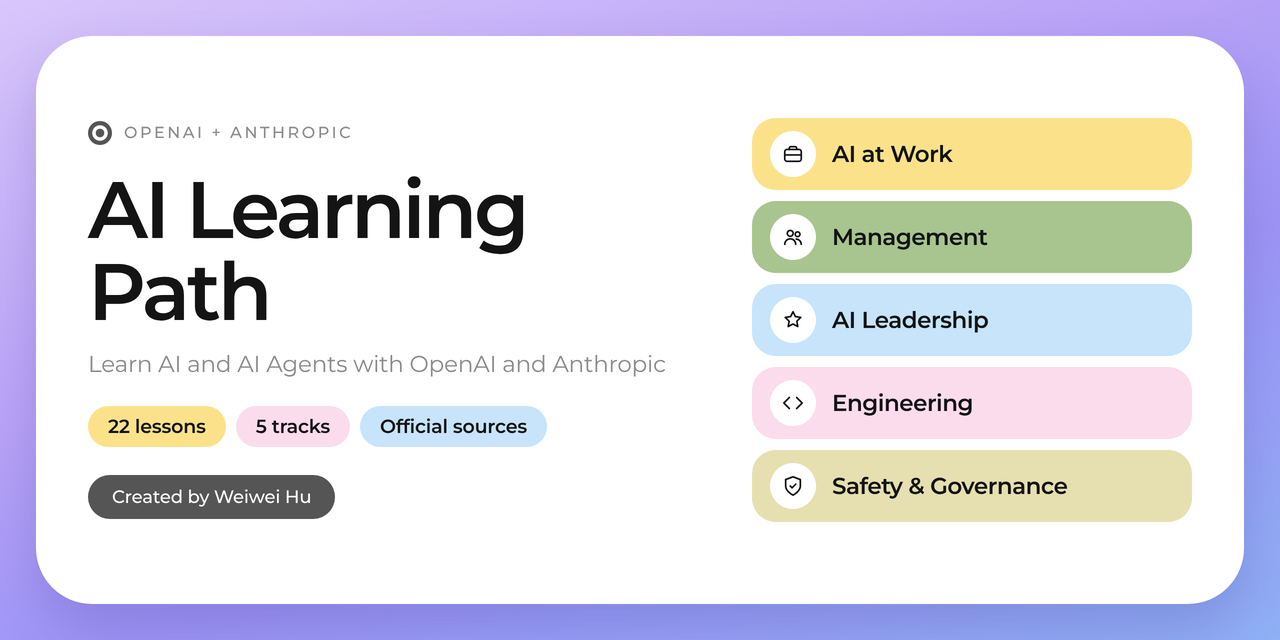
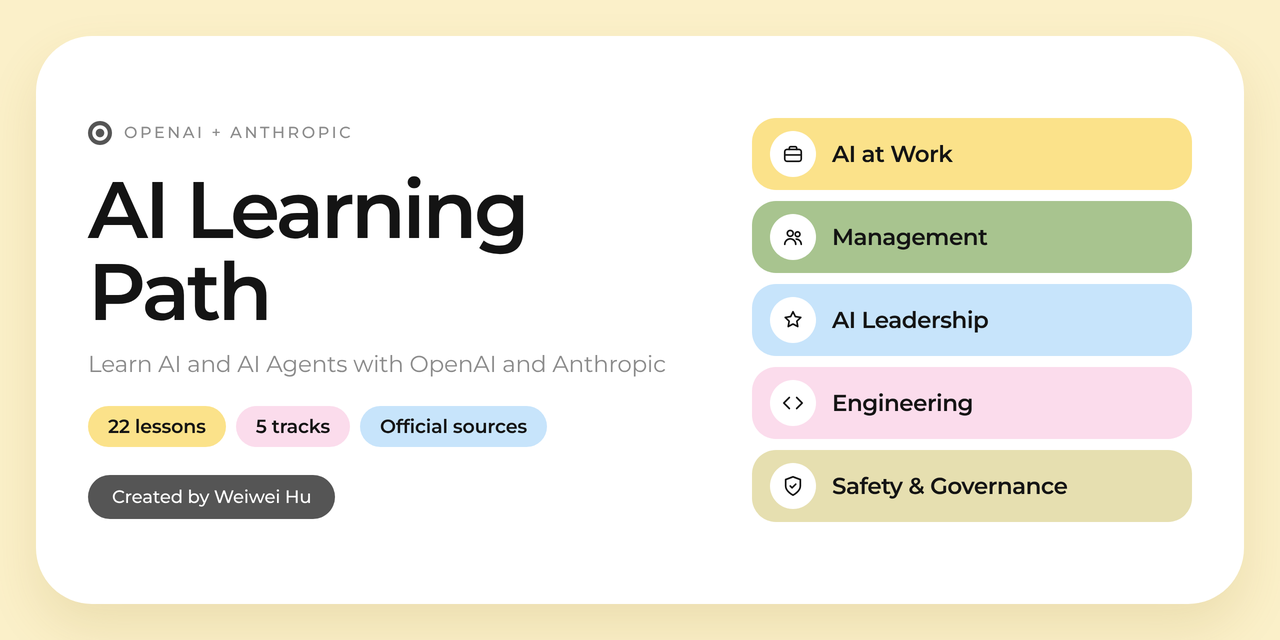
Update design
Claude-Session: https://claude.ai/code/session_01BdwePaEpPAiDmq5pX3fjB4

Changed region(s): [[0.0, 0.0, 1.0, 1.0]]

diff --git a/docs/index.html b/docs/index.html
@@ -184,10 +184,10 @@ footer{flex-direction:column;gap:6px;text-align:center;align-items:center;letter
 #pchip{display:none}
 /* ---- loop theme ---- */
 :root{--ink:#141414;--sub:#8b8b8b;--faint:#b4b4b4;--char:#555555;--cream:#fff9e6;--yel:#fbe28a;--sage:#a8c48f;--line:#eeeeee;--glass:var(--cream);--glass2:#ffffff;--edge:transparent}
-body{background:#a99df5;font-weight:500;letter-spacing:-.01em}
-.bg{background:linear-gradient(160deg,#d9c6fb 0%,#b9a4f7 38%,#9d95f6 62%,#8fb0f5 100%)}
+body{background:#fbf0c9;font-weight:500;letter-spacing:-.01em}
+.bg{background:#fbf0c9}
 .bg i{display:none}
-.wrap{max-width:780px;margin:30px auto;padding:40px 34px 32px;background:#fff;border-radius:52px;box-shadow:0 30px 60px rgba(70,50,150,.22)}
+.wrap{max-width:780px;margin:30px auto;padding:40px 34px 32px;background:#fff;border-radius:52px;box-shadow:0 24px 50px rgba(150,120,30,.14)}
 .glass{background:var(--cream);backdrop-filter:none;-webkit-backdrop-filter:none;border:0;border-radius:28px;box-shadow:none}
 .kicker{font-size:12px;font-weight:500;letter-spacing:.16em;color:var(--sub);align-items:center}
 #home .kicker::before{content:"";flex:0 0 22px;height:22px;border-radius:50%;background:radial-gradient(circle,var(--char) 0 4px,#fff 4.5px 7px,var(--char) 7.5px)}
